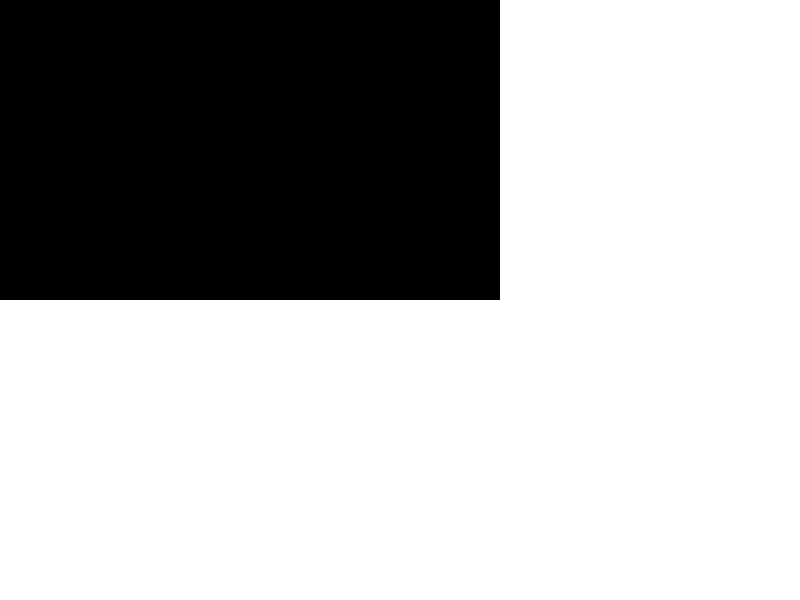
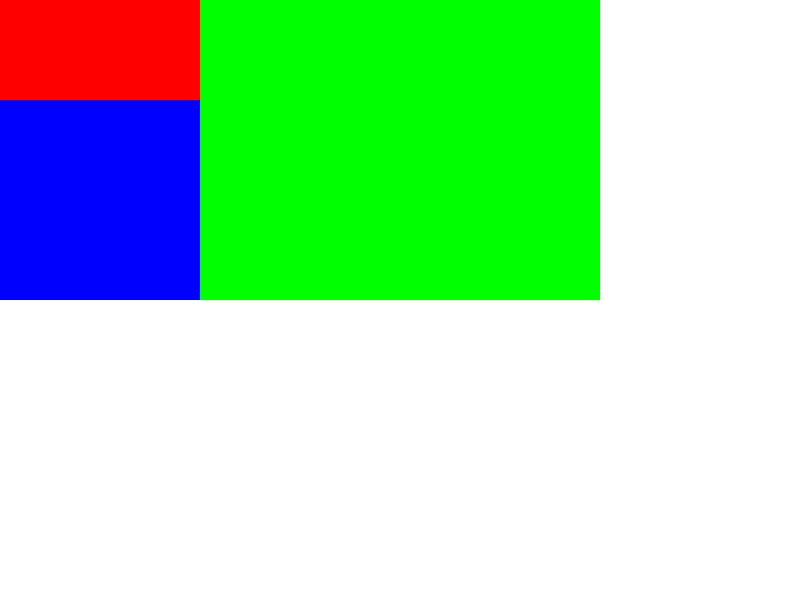
fix

diff --git a/week06/10-render/layout.js b/week06/10-render/layout.js
@@ -168,7 +168,7 @@ function layout (element) {
             if (elementStyle[crossSize] !== null || elementStyle[crossSize] !== (void 0)) {
                 crossSpace = Math.max(crossSpace, elementStyle[crossSize])
             }
-            mainSpace -= elementStyle[mainSize]
+            mainSpace -= itemStyle[mainSize]
         }
     }
 
@@ -222,32 +222,34 @@ function layout (element) {
                     }
 
                     itemStyle[mainStart] = currentMain
-                    itemStyle[mainEnd] = itemStyle[mainStart] * mainSign
+                    itemStyle[mainEnd] = itemStyle[mainStart] + itemStyle[mainSize] * mainSign
                     currentMain = itemStyle[mainEnd]
                 }
             } else {
+                let currentMain = mainBase
+                let step = 0
                 if (style.justifyContent === 'flex-start') {
-                    let currentMain = mainBase
-                    let step = 0
+                    currentMain = mainBase
+                    step = 0
                 } else if (style.justifyContent === 'flex-end') {
-                    let currentMain = mainSpace * mainSign + mainBase
-                    let step = 0
+                    currentMain = mainSpace * mainSign + mainBase
+                    step = 0
                 } else if (style.justifyContent === 'center') {
-                    let currentMain = mainSpace / 2 * mainSign + mainBase
-                    let step = 0
+                    currentMain = mainSpace / 2 * mainSign + mainBase
+                    step = 0
                 } else if (style.justifyContent === 'space-between') { // 空白区域全等宽
-                    let currentMain = mainBase
-                    let step = mainSpace / (items.length - 1) * mainSign
+                    currentMain = mainBase
+                    step = mainSpace / (items.length - 1) * mainSign
                 } else if (style.justifyContent === 'space-around') {
-                    let step = mainSpace / items.length * mainSign
-                    let currentMain = step / 2 + mainBase
+                    step = mainSpace / items.length * mainSign
+                    currentMain = step / 2 + mainBase
                 }
 
                 for (let i = 0; i < items.length; i++) {
                     let itemStyle = getStyle(items[i])
     
                     itemStyle[mainStart] = currentMain
-                    itemStyle[mainEnd] = itemStyle[mainStart] + mainBase * mainSign
+                    itemStyle[mainEnd] = itemStyle[mainStart] + itemStyle[mainSize] * mainSign
                     currentMain = step + itemStyle[mainEnd]
                 }
             }

diff --git a/week06/server.js b/week06/server.js
@@ -13,7 +13,7 @@ const server = http.createServer((req, res) => {
     <head>
         <style>
             #container {
-                width: 500px;
+                width: 600px;
                 height: 300px;
                 display: flex;
                 background-color: rgb(0,0,255);
@@ -25,6 +25,7 @@ const server = http.createServer((req, res) => {
             }
             #container .c1 {
                 flex: 1;
+                height: 300px;
                 background-color: rgb(0,255,0);
             }
         </style>

diff --git a/week06/10-render/render.js b/week06/10-render/render.js
@@ -11,7 +11,7 @@ function render(viewport, element) {
             img.fill(Number(RegExp.$1), Number(RegExp.$2), Number(RegExp.$3), 1)
             // img.fill(255,0,0, 1)
             console.log("left:", element.style.left, element.style.right)
-            viewport.draw(img, element.style.left || 0, element.style.right || 0)
+            viewport.draw(img, element.style.left || 0, element.style.top || 0)
         }
     }
 
